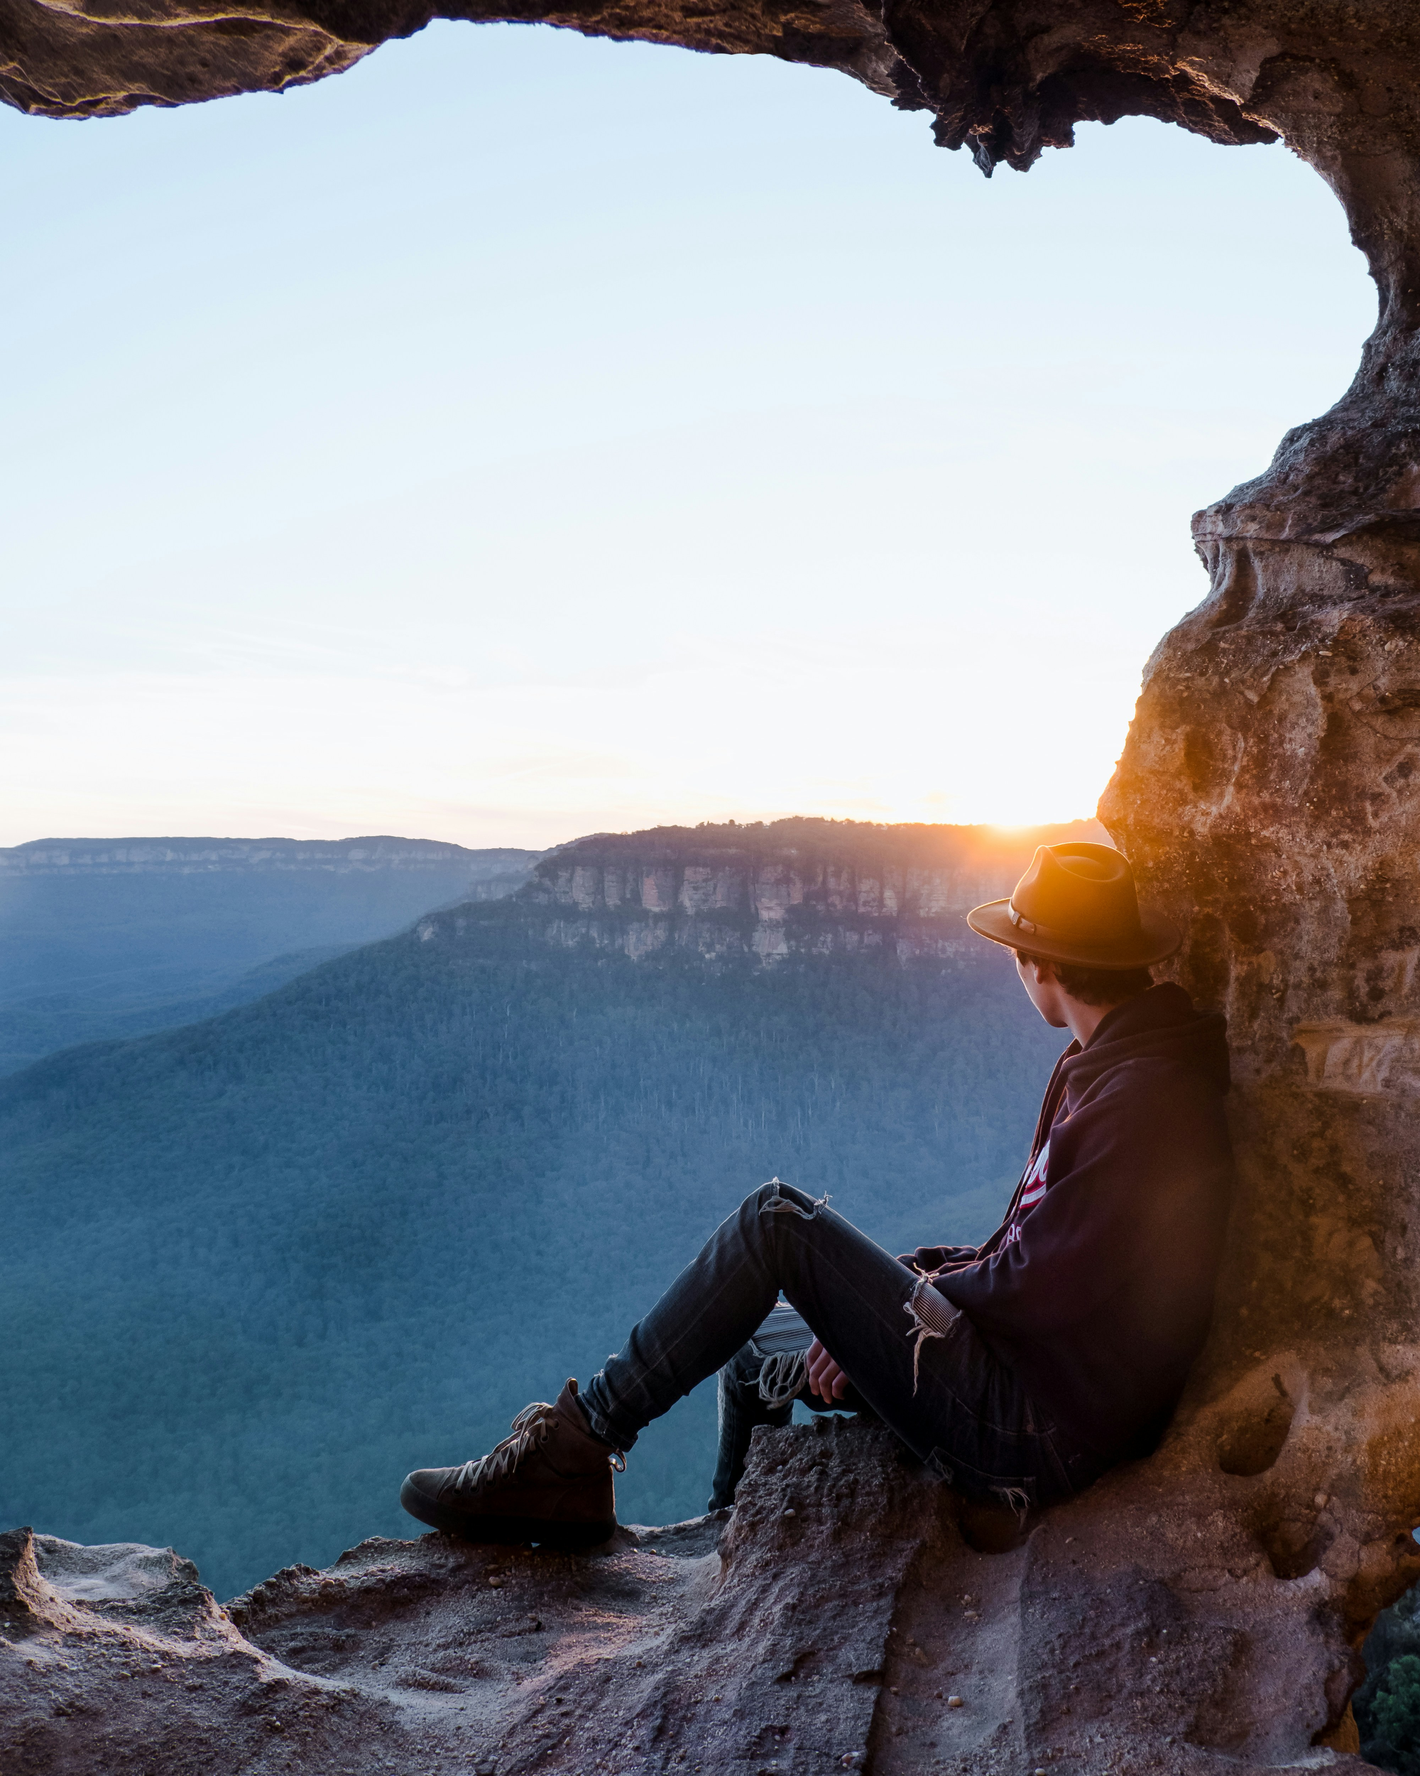
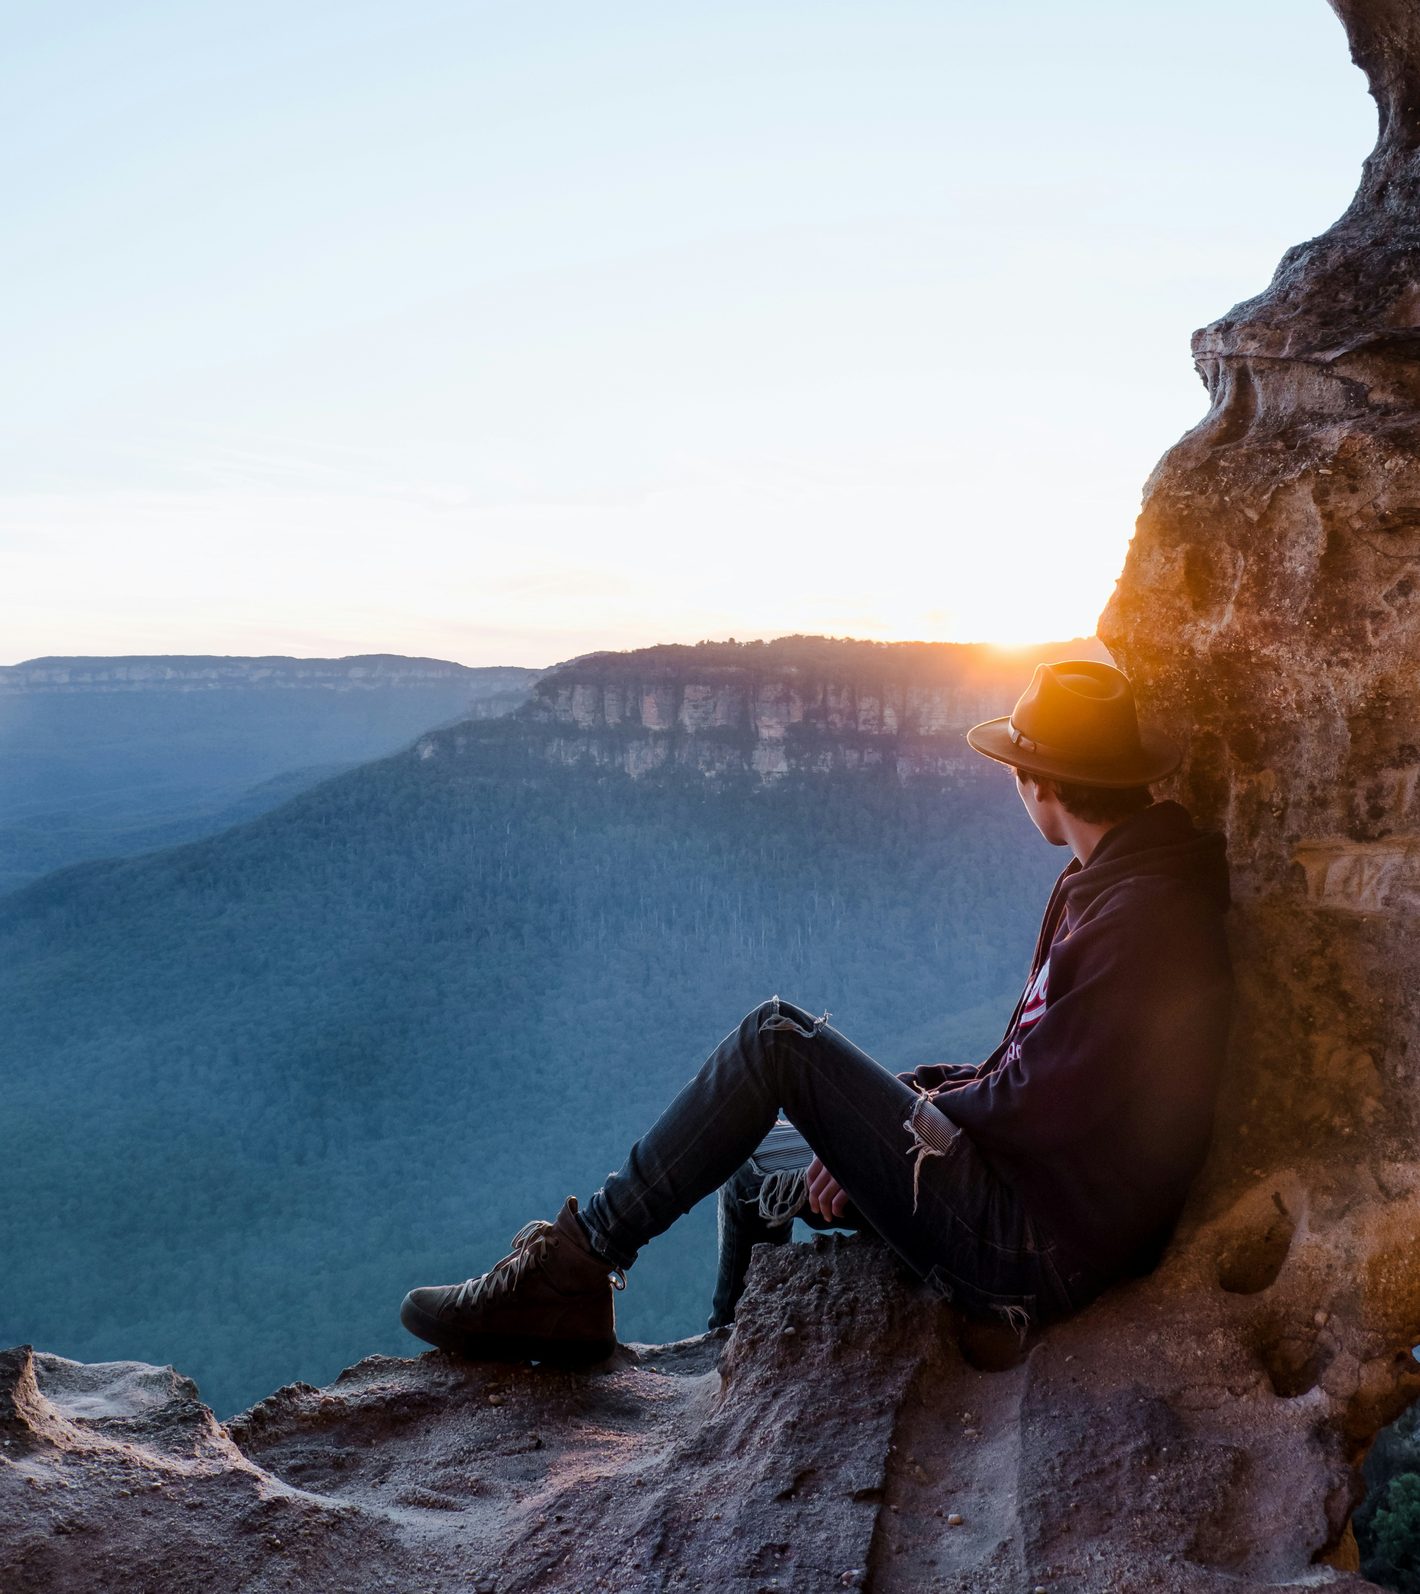
adding mobile responsiveness for nav, home, and contact pages

diff --git a/src/components/home/home.page.tsx b/src/components/home/home.page.tsx
@@ -22,15 +22,15 @@ const HomeContent = ({ setIsNavTriggered }: { setIsNavTriggered: React.Dispatch<
     return () => context.revert();
   }, [setIsNavTriggered]);
 
-  const vert_mountainImagePath = '/assets/landing/mountain_night.png';
-  const horz_mountainImagePath = '/assets/landing/mountain2_day.png';
+  const vert_mountainImagePath = '/assets/landing/mountain_v.png';
+  const horz_mountainImagePath = '/assets/landing/mountain.png';
 
   return (
 
     <div className="relative overflow-x-hidden">
 
       {/* Mobile Version */}
-      <div className="relative flex md:hidden justify-center w-screen h-screen top-0 bg-[#e2e3e4]">
+      <div className="relative flex md:hidden justify-center items-center w-screen h-screen top-0 bg-[#e2e3e4]">
         <Image 
           src={vert_mountainImagePath}
           className="h-screen object-cover"
@@ -39,6 +39,11 @@ const HomeContent = ({ setIsNavTriggered }: { setIsNavTriggered: React.Dispatch<
           height={6000}
           priority
         />
+
+        <div className="absolute flex justify-center items-center text-center w-5/6 h-1/3">
+          <h2 className="font-montserrat font-bold text-[#e2e3e4] text-4xl sm:text-5xl leading-tight">FORGE<br/>YOUR VISION</h2>
+        </div>
+
       </div>
 
 
@@ -61,9 +66,9 @@ const HomeContent = ({ setIsNavTriggered }: { setIsNavTriggered: React.Dispatch<
       </div>
 
 
-      <div className="relative flex flex-col items-center w-full bg-[#131415] z-10 py-[20vh]" ref={navTrigger}>
+      <div className="relative flex flex-col items-center w-full bg-[#131415] z-10 md:py-[20vh] py-[16vh]" ref={navTrigger}>
 
-        <svg className="absolute -z-10 opacity-20 -my-[320px] scale-y-75"
+        <svg className="absolute -z-10 opacity-20 md:-my-[320px] md:scale-y-75 -mt-[60px] md:scale-x-100 scale-x-150"
           viewBox="0 0 470.44 190.91">
           <defs>
             <linearGradient id="a" x1="235.22" x2="235.22" y1="0" y2="157.68" gradientUnits="userSpaceOnUse">
@@ -79,17 +84,15 @@ const HomeContent = ({ setIsNavTriggered }: { setIsNavTriggered: React.Dispatch<
         </svg>
 
 
-
-
-         <div className="flex flex-col w-1/2 h-1/2 font-montserrat text-center text-[#e2e3e4]">
-          <h2 className="w-full font-bold text-[2.2rem] leading-10">WE BELIEVE IN DRAGONS</h2>
-          <p className="w-full text-4xl leading-[1.2] font-light pt-10">
+         <div className="flex flex-col md:w-1/2 w-full h-1/2 font-montserrat text-center text-[#e2e3e4]">
+          <h2 className="w-full font-bold md:text-[2.2rem] text-xl leading-10">WE BELIEVE IN DRAGONS</h2>
+          <p className="w-full md:text-4xl md:leading-[1.2] text-2xl md:px-0 px-[2vw] font-light pt-10">
             We build websites, apps, and digital experiences that help businesses reach beyond what they thought possible. 
             We see potential where others see problems, and we&apos;re not afraid to chase ambitious visions. 
             We start by understanding your goals, then use our expertise to turn the impossible into something powerful and real.</p>
         </div>
 
-        <svg className="mt-[32vh] scale-75 fill-[#262830]"
+        <svg className="md:block hidden mt-[32vh] scale-75 fill-[#262830]"
           viewBox="0 0 433.11 7.76">
           <path d="M221.89,5.33a5.34,5.34,0,0,0-10.67,0,5.36,5.36,0,0,0,.61,2.43h9.45A5.24,5.24,0,0,0,221.89,5.33Z"/>
           <path d="M433.11,7.76,224,3.07a.44.44,0,0,0-.45.34l-1,4.35H433.11Z"/>
@@ -97,71 +100,77 @@ const HomeContent = ({ setIsNavTriggered }: { setIsNavTriggered: React.Dispatch<
         </svg>
 
 
-        <div className="grid grid-cols-2 w-full gap-y-64 mt-20">
-          <div className="w-full pr-4">
+        <div className="grid md:grid-cols-2 w-full md:gap-y-64 gap-y-[10vh] md:mt-20 mt-[20vh]">
+          <div className="w-full md:pr-4 md:scale-100 scale-125 order-1">
             <Image
-            src={'/assets/landing/samir.jpg'}
-            className="h-full object-cover"
-            alt="A photo of Samir Venegas, holding a walking stick on a hiking trail"
-            width={1993}
-            height={2657}></Image>
+              src={'/assets/landing/samir.jpg'}
+              className="md:h-full w-full object-cover"
+              alt="A photo of Samir Venegas, holding a walking stick on a hiking trail"
+              width={1993}
+              height={2657} />
           </div>
-          <div className="ml-20 w-full max-w-[800px] py-20">
-            <h3 className="font-montserrat text-7xl pr-12 pl-1">&#34;OUR ONLINE PRESENCE IS HOLDING US BACK.&#34;</h3>
-            <p className="font-jost text-4xl mt-8">We hear this a lot. When your digital presence doesn&apos;t match your business quality, it&apos;s frustrating. We specialize in bridging that gap—taking businesses 
+
+
+          <div className="w-full md:max-w-[800px] md:ml-20 md:py-20 order-2">
+            <h3 className="font-montserrat md:text-7xl text-5xl md:text-left text-center md:pr-12 md:pl-1 md:px-0 px-4">&#34;OUR ONLINE PRESENCE IS HOLDING US BACK.&#34;</h3>
+            <p className="font-jost text-4xl mt-8 md:px-0 px-4">We hear this a lot. When your digital presence doesn&apos;t match your business quality, it&apos;s frustrating. We specialize in bridging that gap—taking businesses 
               from &#34;our website is embarrassing&#34; to &#34;our website brings in customers.&#34; It&apos;s about alignment, not just aesthetics.</p>
-            <div className="w-full h-20 mt-32 pr-20 group">
+            <div className="md:w-full w-11/12 mx-auto h-20 mt-32 md:pr-20 group">
               <a className="flex justify-center items-center border-2 border-white h-full w-full cursor-pointer transition-colors duration-100 hover:bg-[#e2e3e4]/10 active:bg-[#e2e3e4]/30" href="./services">
-                <p className="font-montserrat font-bold text-xl text-[#e2e3e4]">Transform your online presence</p>
+                <p className="font-montserrat font-bold md:text-xl text-lg text-[#e2e3e4]">Transform your online presence</p>
               </a>
             </div>
           </div>
 
 
-          <div className="ml-auto mr-20 w-full max-w-[800px] py-20">
-            <h3 className="font-montserrat text-7xl pr-12 pl-1">&#34;WHAT MAKES A WEBSITE ACTUALLY WORK?&#34;</h3>
-            <p className="font-jost text-4xl mt-8">A good website isn&apos;t just pretty—it&apos;s built with purpose. We focus on creating sites that serve your business goals, whether that&apos;s getting more leads, 
+          <div className="md:ml-auto md:mr-20 w-full md:max-w-[800px] md:py-20 md:order-3 order-4">
+            <h3 className="font-montserrat md:text-7xl text-5xl md:text-left text-center md:pr-12 md:pl-1 md:px-0 px-4">&#34;WHAT MAKES A WEBSITE ACTUALLY WORK?&#34;</h3>
+            <p className="font-jost text-4xl mt-8 md:px-0 px-4">A good website isn&apos;t just pretty—it&apos;s built with purpose. We focus on creating sites that serve your business goals, whether that&apos;s getting more leads, 
               building credibility, or making it easier for customers to work with you. Form follows function, always.</p>
-            <div className="w-full h-20 mt-32 pr-20 group">
+            <div className="md:w-full w-11/12 mx-auto h-20 mt-32 md:pr-20 group">
               <a className="flex justify-center items-center border-2 border-white h-full w-full cursor-pointer transition-colors duration-100 hover:bg-[#e2e3e4]/10 active:bg-[#e2e3e4]/30" href="./services">
-                <p className="font-montserrat font-bold text-xl text-[#e2e3e4]">Make your website work for you</p>
+                <p className="font-montserrat font-bold md:text-xl text-lg text-[#e2e3e4]">Make your website work for you</p>
               </a>
             </div>
           </div>
-          <div className="w-full pl-4">
+
+
+          <div className="w-full md:pl-4 md:scale-100 scale-125 md:order-4 order-3">
             <Image
             src={'/assets/landing/sand.jpg'}
-            className="h-full object-cover"
+            className="w-full object-cover"
             alt=""
             width={1993}
-            height={2657}></Image>
+            height={2657} />
           </div>
 
 
-          <div className="w-full pr-4">
+          <div className="w-full md:pr-4 md:scale-100 scale-125 order-5">
             <Image
             src={'/assets/landing/blackbird.jpg'}
-            className="h-full object-cover"
+            className="w-full object-cover"
             alt=""
             width={1993}
             height={2657}></Image>
           </div>
-          <div className="ml-20 w-full max-w-[800px] py-20">
-            <h3 className="font-montserrat text-7xl pr-12 pl-1">&#34;WHAT IF I NEED CHANGES AFTER LAUNCH?&#34;</h3>
-            <p className="font-jost text-4xl mt-8">That&apos;s exactly why we exist. Your business evolves, and your website should too. Our plans include 
+
+
+          <div className="md:ml-20 w-full max-w-[800px] md:py-20 order-6">
+            <h3 className="font-montserrat md:text-7xl text-5xl md:text-left text-center md:pr-12 md:pl-1 md:px-0 px-4">&#34;WHAT IF I NEED CHANGES AFTER LAUNCH?&#34;</h3>
+            <p className="font-jost text-4xl mt-8 md:px-0 px-4">That&apos;s exactly why we exist. Your business evolves, and your website should too. Our plans include 
               regular updates, so you&apos;re never stuck with a stale site or hunting for your &#34;web guy.&#34;</p>
-            <div className="w-full h-20 mt-32 pr-20 group">
+            <div className="md:w-full w-11/12 mx-auto h-20 mt-32 md:pr-20 group">
               <a className="flex justify-center items-center border-2 border-white h-full w-full cursor-pointer transition-colors duration-100 hover:bg-[#e2e3e4]/10 active:bg-[#e2e3e4]/30" href="./services">
-                <p className="font-montserrat font-bold text-xl text-[#e2e3e4]">See what our services can do for you</p>
+                <p className="font-montserrat font-bold md:text-xl text-lg text-[#e2e3e4]">See what our services can do for you</p>
               </a>
             </div>
           </div>
 
-
+          
         </div>
         
 
-        <div className="flex flex-row gap-24 mt-[24vh]">
+        <div className="flex md:flex-row flex-col md:gap-24 mt-[24vh]">
           <div className="flex flex-col py-8">
             <div className="w-64 h-72 mx-auto bg-[#e2e3e4]"></div>
             <h3 className="font-montserrat mt-8 text-center text-4xl">WE SEARCH<br/>WITH YOU</h3>

diff --git a/src/components/navbar.tsx b/src/components/navbar.tsx
@@ -3,7 +3,7 @@ import React from "react";
 import { useRef } from "react";
 import gsap from 'gsap'
 import { ScrollTrigger } from 'gsap/ScrollTrigger'
-import { Menu } from "lucide-react";
+import { Menu, X } from "lucide-react";
 
 gsap.registerPlugin(ScrollTrigger);
 
@@ -18,7 +18,7 @@ const Navbar = ({ isNavTriggered, activePage } : {
     <>
       <div
         ref={navRef}
-        className={`fixed flex justify-center w-full md:h-24 h-16 md:py-4 py-2 px-8 z-40 transition-all duration-75 
+        className={`fixed flex justify-center w-full md:h-24 h-16 md:py-4 py-2 md:px-8 px-2 z-40 transition-all duration-75 
           ${isNavTriggered ? "bg-gradient-to-br from-[#121314]/95 to-[#101112]/95 backdrop-blur-lg" : 'bg-gradient-to-b from-[#131415]/50 to-transparent'}`}
       >
         <nav className="flex flex-row w-full h-full max-w-[1620px] px-[2vw]">
@@ -73,17 +73,36 @@ const Navbar = ({ isNavTriggered, activePage } : {
             <li className={`cursor-pointer transition-colors duration-200 ${activePage == 3 ? 'underline' : 'hover:underline'}`}>{activePage != 3 ? <a href="./about">About</a> : <>About</>}</li>
             <li className={`cursor-pointer transition-colors duration-200 ${activePage == 4 ? 'underline' : 'hover:underline'}`}>{activePage != 4 ? <a href="./contact">Contact</a> : <>Contact</>}</li>
           </ul>
-          <button className="md:hidden flex ml-auto my-auto" onClick={() => setIsMenuActive(true)}>
-            <Menu className={`w-9 h-9 ${isNavTriggered ? 'text-[#e2e3e4]' : 'text-[#131415]'}`} />
+          <button className="md:hidden flex ml-auto my-auto" onClick={ isMenuActive ? () => setIsMenuActive(false) : () => setIsMenuActive(true) }>
+            { isMenuActive ? 
+              <X className={`w-9 h-9 ${isNavTriggered ? 'text-[#e2e3e4]' : 'text-[#131415]'}`} /> :
+              <Menu className={`w-9 h-9 ${isNavTriggered ? 'text-[#e2e3e4]' : 'text-[#131415]'}`} />
+            }
           </button>
 
         </nav>
       </div>
 
       {/* Side Menu */}
-      <div className={`${isMenuActive ? 'fixed' : 'hidden'} h-screen w-5/6 bg-purple-500 z-50`}>
+      <div className={`md:hidden flex flex-col ${isMenuActive ? '' : '-translate-x-[100%]'} fixed h-screen w-2/3 border-r-4 border-[#dfe0e1] bg-gradient-to-br from-[#e2e3e4] to-[#e5e6e7] z-50 transition-all ease-out duration-150`}>
         
+        <a className="w-1/3 ml-[10%] mt-[5vh]" href="./">
+          <svg className="fill-[#131415]" viewBox="0 0 176.23 176.23">
+            <path d="M88.85,83.71A367.12,367.12,0,0,1,68.48,41.46,275.64,275.64,0,0,0,78.74,72.25c20.34,50.94,52.31,88.59,79.72,97.54C135.13,151.55,109.92,121.23,88.85,83.71Z"/>
+            <path d="M132.86,176.23c-21.75-30.42-46.8-51.09-67.94-56.42C85.78,129.91,109.88,149.68,132.86,176.23Z"/>
+            <path d="M88.12,0a88.12,88.12,0,1,0,88.11,88.12A88.12,88.12,0,0,0,88.12,0ZM92,168.13A76.12,76.12,0,1,1,168.13,92,76.12,76.12,0,0,1,92,168.13Z"/>
+          </svg>
+        </a>
+
+        <ul className="flex flex-col gap-[2vh] text-3xl text-[#131415] ml-[10%] mt-[8vh]">
+          <li className={`cursor-pointer transition-colors duration-200 ${activePage == 1 ? 'underline' : 'hover:underline'}`}>{activePage != 1 ? <a href="./">Home</a> : <>Home</>}</li>
+          <li className={`cursor-pointer transition-colors duration-200 ${activePage == 2 ? 'underline' : 'hover:underline'}`}>{activePage != 2 ? <a href="./services">Services</a> : <>Services</>}</li>
+          <li className={`cursor-pointer transition-colors duration-200 ${activePage == 3 ? 'underline' : 'hover:underline'}`}>{activePage != 3 ? <a href="./about">About</a> : <>About</>}</li>
+          <li className={`cursor-pointer transition-colors duration-200 ${activePage == 4 ? 'underline' : 'hover:underline'}`}>{activePage != 4 ? <a href="./contact">Contact</a> : <>Contact</>}</li>
+        </ul>
+
       </div>
+      <div className={`opacity-0 ${isMenuActive ? 'block opacity-100' : 'hidden'} fixed w-screen h-screen bg-zinc-900/30 z-30 transition-opacity`} onClick={() => setIsMenuActive(false)} />
     </>
   )
 }

diff --git a/src/components/contact/contact.page.tsx b/src/components/contact/contact.page.tsx
@@ -55,7 +55,7 @@ const ContactContent = ({ setIsNavTriggered }: { setIsNavTriggered: React.Dispat
     }
   };
 
-  const vert_mountainImagePath = '/assets/contact/vision.jpg';
+  const vert_mountainImagePath = '/assets/contact/vision_v.jpg';
   const horz_mountainImagePath = '/assets/contact/vision.jpg';
 
   return (
@@ -63,15 +63,20 @@ const ContactContent = ({ setIsNavTriggered }: { setIsNavTriggered: React.Dispat
     <div className="relative overflow-x-hidden">
 
       {/* Mobile Version */}
-      <div className="relative flex md:hidden justify-center w-screen h-screen top-0 bg-[#e2e3e4]">
+      <div className="relative flex md:hidden justify-center w-screen h-screen top-0 bg-[#131415]">
         <Image 
           src={vert_mountainImagePath}
-          className="h-screen object-cover"
-          alt="a woman standing in front of a vast mountaintop"
-          width={4000}
-          height={6000}
+          className="w-screen h-screen object-cover"
+          alt="Leio Mclaren sitting on a cliffside, looking out to the sunrise"
+          width={2473}
+          height={4489}
           priority
         />
+
+        <div className="absolute flex items-center w-5/6 h-1/3 mt-[10vh]">
+          <h2 className="font-montserrat font-bold text-black text-4xl sm:text-5xl leading-tight">SHARE YOUR<br/>VISION</h2>
+        </div>
+
       </div>
 
 
@@ -80,10 +85,10 @@ const ContactContent = ({ setIsNavTriggered }: { setIsNavTriggered: React.Dispat
       <div className="relative hidden md:flex items-center justify-center w-screen h-screen top-0 bg-[#131415]">
         <Image
           src={horz_mountainImagePath}
-          className="h-screen w-screen object-cover scale-110"
-          alt="a lush valley beneath a breathtaking mountain ridge"
+          className="w-screen h-screen object-cover"
+          alt="Leio Mclaren sitting on a cliffside, looking out to the sunrise"
           width={4000}
-          height={5000}
+          height={4489}
           priority
         />
         
@@ -96,20 +101,20 @@ const ContactContent = ({ setIsNavTriggered }: { setIsNavTriggered: React.Dispat
 
       <div className="relative flex flex-col items-center w-full bg-[#131415] text-[#e2e3e4] z-10 py-[10vh]" ref={navTrigger}>
 
-        <div className="grid grid-cols-7">
-          <div className="grid grid-cols-4 col-span-4 w-full">
+        <div className="grid md:grid-cols-7 grid-cols-1 md:mt-0 mt-[5vh]">
+          <div className="md:grid md:grid-cols-4 md:col-span-4 w-full">
             <div />
-            <div className="flex flex-row gap-[5vw] col-span-3 w-full">
-              <p className="font-montserrat font-thin text-8xl">
+            <div className="flex md:flex-row flex-col gap-[5vw] col-span-3 w-full">
+              <p className="font-montserrat font-thin md:text-left text-center md:text-8xl text-5xl md:w-full w-screen">
                 LET&apos;S GET<br/>IN TOUCH
               </p>
-              <a className="flex flex-row ml-auto mt-auto mr-[2vw] cursor-pointer group" href="mailto:info@wrynndev.com">
+              <a className="md:flex hidden flex-row ml-auto mt-auto mr-[2vw] cursor-pointer group" href="mailto:info@wrynndev.com">
                 <Mails className="w-8 h-8 mr-2" />
                 <p className="group-hover:underline text-2xl">info@wrynndev.com</p>
               </a>
             </div>
-            <div className="w-full mt-2 bg-[#0f0f0d]/70"/>
-            <div className="flex flex-row mt-2 col-span-3">
+            <div className="md:block hidden w-full mt-2 bg-[#0f0f0d]/70"/>
+            <div className="md:flex hidden flex-row mt-2 md:col-span-3">
               
               <Image
                 src={'/assets/contact/ledger.jpg'}
@@ -119,7 +124,7 @@ const ContactContent = ({ setIsNavTriggered }: { setIsNavTriggered: React.Dispat
                 height={2504}
               />
             </div>
-            <div></div>
+            <div className="md:block hidden" />
 
           </div>
 

diff --git a/src/components/services/services.page.tsx b/src/components/services/services.page.tsx
@@ -22,7 +22,7 @@ const ServicesContent = ({ setIsNavTriggered }: { setIsNavTriggered: React.Dispa
     return () => context.revert();
   }, [setIsNavTriggered]);
 
-  const vert_mountainImagePath = '/assets/services/mountain.jpg';
+  const vert_mountainImagePath = '/assets/services/mountain_v.jpg';
   const horz_mountainImagePath = '/assets/services/mountain.jpg';
 
   return (

diff --git a/src/components/about/about.page.tsx b/src/components/about/about.page.tsx
@@ -22,7 +22,7 @@ const AboutContent = ({ setIsNavTriggered }: { setIsNavTriggered: React.Dispatch
     return () => context.revert();
   }, [setIsNavTriggered]);
 
-  const vert_mountainImagePath = '/assets/about/mountain.jpg';
+  const vert_mountainImagePath = '/assets/about/mountain_v.jpg';
   const horz_mountainImagePath = '/assets/about/mountain.jpg';
 
   return (
